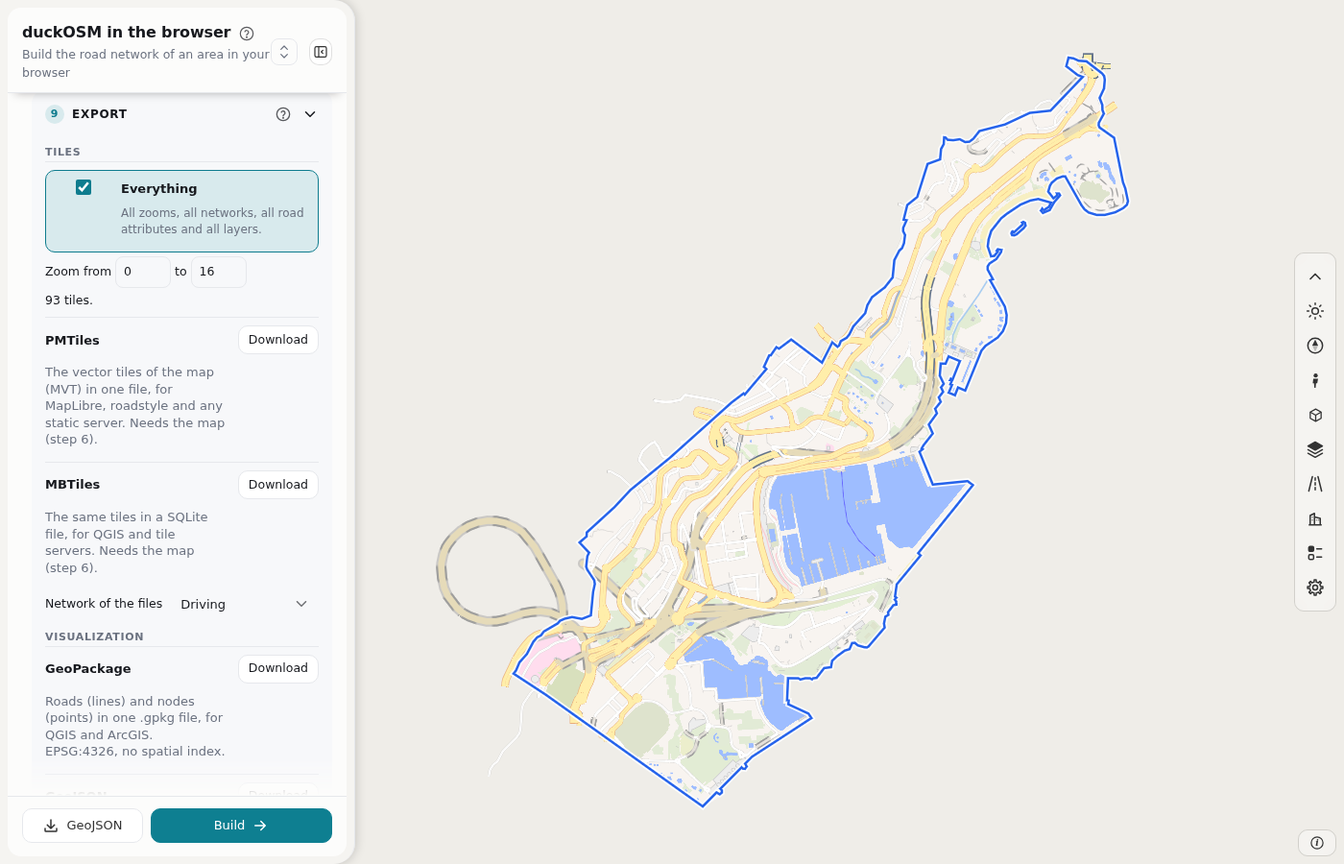
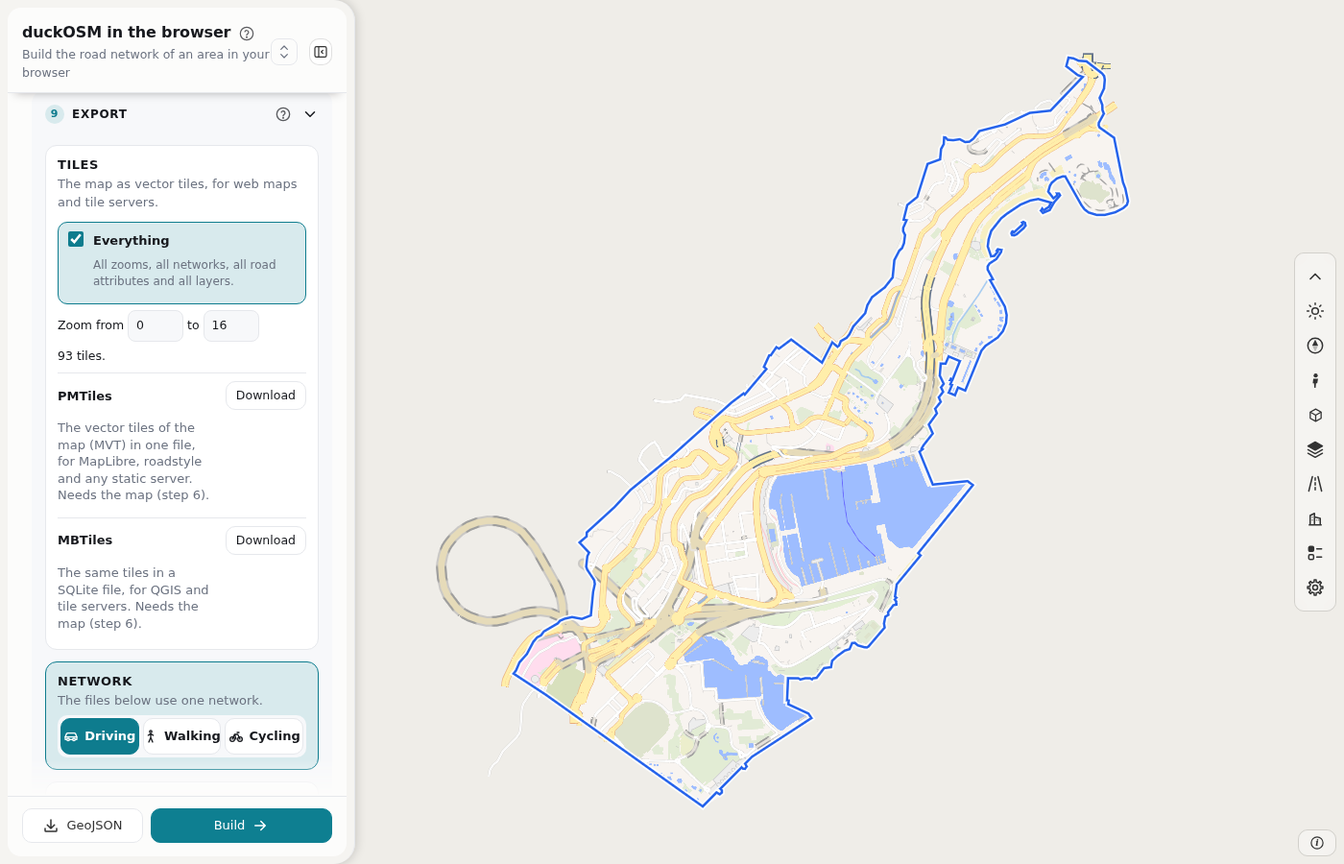
Export card: four sections, a segmented network control, a check of each file after the download

diff --git a/crates/duckosm-wasm/www/app/export.js b/crates/duckosm-wasm/www/app/export.js
@@ -35,7 +35,7 @@ export async function geojson(query, mode, area) {
   const nodes = await query(`SELECT node_id::VARCHAR AS node_id, ST_AsGeoJSON(geom) AS g FROM ${mode}.nodes ORDER BY node_id`);
   const fc = (rows, props) => JSON.stringify({ type: "FeatureCollection", features: rows.map((r) => ({ type: "Feature", properties: props(r), geometry: JSON.parse(r.g) })) });
   const keep = ({ g, ...p }) => Object.fromEntries(Object.entries(p).map(([k, v]) => [k, typeof v === "bigint" ? String(v) : v]));
-  return { name: `${SLUG(area)}_${mode}_geojson.zip`, blob: await zipOf({ [`${mode}_roads.geojson`]: fc(roads, keep), [`${mode}_nodes.geojson`]: fc(nodes, keep) }), files: 2, rows: roads.length };
+  return { name: `${SLUG(area)}_${mode}_geojson.zip`, blob: await zipOf({ [`${mode}_roads.geojson`]: fc(roads, keep), [`${mode}_nodes.geojson`]: fc(nodes, keep) }), files: 2, rows: roads.length, nodes: nodes.length };
 }
 
 /** A MATSim network (network_v2.dtd): the nodes, and one link for each edge. */
@@ -54,7 +54,7 @@ export async function matsim(query, mode, area) {
       `<attributes><attribute name="origid" class="java.lang.String">${e.osm_id}</attribute><attribute name="type" class="java.lang.String">${esc(e.highway)}</attribute></attributes></link>\n`);
   }
   out.push("</links>\n</network>\n");
-  return { name: `${SLUG(area)}_${mode}_matsim_network.xml`, blob: text(out.join("")), rows: edges.length };
+  return { name: `${SLUG(area)}_${mode}_matsim_network.xml`, blob: text(out.join("")), rows: edges.length, nodes: nodes.length };
 }
 
 /** SUMO plain XML: node, edge and connection files for `netconvert`, with a README that has the command. */
@@ -75,7 +75,7 @@ export async function sumo(query, mode, area) {
   const con = [`<?xml version="1.0" encoding="UTF-8"?>\n<connections>\n`, ...links.map((l) => `  <connection from="${l.a}" to="${l.b}"/>\n`), "</connections>\n"].join("");
   const readme = `SUMO plain XML of the ${mode} network of ${area}, from duckOSM-rust.\nCoordinates: meters in ${utm}. Run:\n\n  netconvert --node-files ${slug}.nod.xml --edge-files ${slug}.edg.xml --connection-files ${slug}.con.xml -o ${slug}.net.xml\n\n` +
     `The connections are the legal turns of the edge graph (turn restrictions applied). The edge ids are the edge_id values of the tables.\n`;
-  return { name: `${slug}_sumo.zip`, blob: await zipOf({ [`${slug}.nod.xml`]: nod, [`${slug}.edg.xml`]: edg, [`${slug}.con.xml`]: con, "README.txt": readme }), rows: edges.length, connections: links.length };
+  return { name: `${slug}_sumo.zip`, blob: await zipOf({ [`${slug}.nod.xml`]: nod, [`${slug}.edg.xml`]: edg, [`${slug}.con.xml`]: con, "README.txt": readme }), rows: edges.length, nodes: nodes.length, connections: links.length };
 }
 
 import { decodeTile, encodeTile, addProps, indexOf } from "./mvt.js";
@@ -247,7 +247,7 @@ async function tileFile(kind, ctx, area) {
   if (!tiles.length) throw new Error("no tile has anything in it: show the map first (step 6), or use other zooms");
   const info = { name: SLUG(area), bbox: ctx.bbox, minzoom: ctx.min, maxzoom: ctx.max, layers };
   const blob = await (kind === "pmtiles" ? pmtiles : mbtiles)(tiles, info);
-  return { name: `${SLUG(area)}_z${ctx.min}-${ctx.max}.${kind}`, blob, rows: tiles.length, tiles: tiles.length, layers };
+  return { name: `${SLUG(area)}_z${ctx.min}-${ctx.max}.${kind}`, blob, rows: tiles.length, tiles: tiles.length, layers, min: ctx.min, max: ctx.max, edgeTiles: ctx.extra ?? null };
 }
 export const pmtilesFile = (query, mode, area, ctx) => tileFile("pmtiles", ctx, area);
 export const mbtilesFile = (query, mode, area, ctx) => tileFile("mbtiles", ctx, area);
@@ -376,7 +376,121 @@ export async function geopackage(query, mode, area) {
   db.run("INSERT INTO gpkg_geometry_columns VALUES ('roads', 'geom', 'LINESTRING', 4326, 0, 0), ('nodes', 'geom', 'POINT', 4326, 0, 0)");
   const bytes = db.export();
   db.close();
-  return { name: `${SLUG(area)}_${mode}.gpkg`, blob: new Blob([bytes], { type: "application/geopackage+sqlite3" }), rows: edges.length };
+  return { name: `${SLUG(area)}_${mode}.gpkg`, blob: new Blob([bytes], { type: "application/geopackage+sqlite3" }), rows: edges.length, nodes: nodes.length };
+}
+
+// ---- the check of a file: the page reads the file that it made, and compares it with the tables. `verify` gives {ok, text}.
+const unzip = async (blob) => {
+  const { unzipSync } = await import("https://cdn.jsdelivr.net/npm/fflate@0.8.2/esm/browser.js");
+  return unzipSync(new Uint8Array(await blob.arrayBuffer()));
+};
+const count = async (query, sql) => Number((await query(sql))[0].n);
+const xml = (bytes) => {
+  const d = new DOMParser().parseFromString(new TextDecoder().decode(bytes), "application/xml");
+  if (d.querySelector("parsererror")) throw new Error("the XML does not parse");
+  return d;
+};
+const gunzip = async (bytes) => new Uint8Array(await new Response(new Blob([bytes]).stream().pipeThrough(new DecompressionStream("gzip"))).arrayBuffer());
+const fmt = (n) => Number(n).toLocaleString("en-US");
+
+/** Read the directories of a PMTiles file: [{id, offset, length}] of every tile, and the header numbers. */
+async function readPmtiles(bytes) {
+  const v = new DataView(bytes.buffer, bytes.byteOffset, bytes.byteLength), u64 = (o) => Number(v.getBigUint64(o, true));
+  if (new TextDecoder().decode(bytes.subarray(0, 7)) !== "PMTiles" || bytes[7] !== 3) throw new Error("the file is not PMTiles v3");
+  const h = { rootAt: u64(8), rootLen: u64(16), leafAt: u64(40), leafLen: u64(48), dataAt: u64(56), tiles: u64(72), min: bytes[100], max: bytes[101] };
+  const dir = async (at, len) => {
+    const b = await gunzip(bytes.subarray(at, at + len));
+    let i = 0;
+    const varint = () => { let x = 0, sh = 0; for (;;) { const c = b[i++]; x += (c & 127) * 2 ** sh; if (c < 128) return x; sh += 7; } };
+    const n = varint(), e = Array.from({ length: n }, () => ({}));
+    let id = 0;
+    for (const x of e) { id += varint(); x.id = id; }
+    for (const x of e) x.run = varint();
+    for (const x of e) x.length = varint();
+    e.forEach((x, k) => { const o = varint(); x.offset = o === 0 && k > 0 ? e[k - 1].offset + e[k - 1].length : o - 1; });
+    return e;
+  };
+  const tiles = [];
+  for (const e of await dir(h.rootAt, h.rootLen)) {
+    if (e.run > 0) tiles.push(e);
+    else for (const l of await dir(h.leafAt + e.offset, e.length)) tiles.push(l);
+  }
+  return { h, tiles, tileBytes: (e) => bytes.subarray(h.dataAt + e.offset, h.dataAt + e.offset + e.length) };
+}
+
+export async function verify(id, r, { query, mode, modes = [mode] }) {
+  const nEdges = id === "pmtiles" || id === "mbtiles" ? 0 : await count(query, `SELECT count(*) AS n FROM ${mode}.edges`);
+  const nNodes = id === "pmtiles" || id === "mbtiles" ? 0 : await count(query, `SELECT count(*) AS n FROM ${mode}.nodes`);
+  const same = (what, got, want) => { if (got !== want) throw new Error(`${what}: the file has ${fmt(got)}, the tables have ${fmt(want)}`); };
+  try {
+    if (id === "geojson") {
+      const z = await unzip(r.blob), td = new TextDecoder();
+      const roads = JSON.parse(td.decode(z[`${mode}_roads.geojson`])), nodes = JSON.parse(td.decode(z[`${mode}_nodes.geojson`]));
+      same("roads", roads.features.length, nEdges); same("nodes", nodes.features.length, nNodes);
+      return { ok: true, text: `${fmt(nEdges)} roads and ${fmt(nNodes)} nodes, the same as the tables` };
+    }
+    if (id === "gpkg") {
+      const db = new (await sqlite()).Database(new Uint8Array(await r.blob.arrayBuffer()));
+      const q = (sql) => db.exec(sql)[0].values[0][0];
+      same("roads", q("SELECT count(*) FROM roads"), nEdges); same("nodes", q("SELECT count(*) FROM nodes"), nNodes);
+      if (q("PRAGMA application_id") !== 1196444487) throw new Error("the application id is not GPKG");
+      const g = db.exec("SELECT geom FROM roads LIMIT 1")[0].values[0][0];
+      if (g[0] !== 0x47 || g[1] !== 0x50) throw new Error("the geometry has no GeoPackage header");
+      db.close();
+      return { ok: true, text: `${fmt(nEdges)} roads and ${fmt(nNodes)} nodes, the same as the tables; the header of the geometry is right` };
+    }
+    if (id === "matsim") {
+      const d = xml(new Uint8Array(await r.blob.arrayBuffer()));
+      const nodes = d.querySelectorAll("nodes > node"), links = d.querySelectorAll("links > link");
+      same("nodes", nodes.length, nNodes); same("links", links.length, nEdges);
+      const ids = new Set([...nodes].map((n) => n.getAttribute("id")));
+      for (const l of links) if (!ids.has(l.getAttribute("from")) || !ids.has(l.getAttribute("to"))) throw new Error(`link ${l.getAttribute("id")} has a node that is not in the file`);
+      return { ok: true, text: `${fmt(links.length)} links and ${fmt(nodes.length)} nodes, the same as the tables; every link joins two nodes of the file` };
+    }
+    if (id === "sumo") {
+      const z = await unzip(r.blob), name = Object.keys(z).find((n) => n.endsWith(".nod.xml")).slice(0, -8);
+      const nod = xml(z[`${name}.nod.xml`]), edg = xml(z[`${name}.edg.xml`]), con = xml(z[`${name}.con.xml`]);
+      same("nodes", nod.querySelectorAll("node").length, nNodes); same("edges", edg.querySelectorAll("edge").length, nEdges);
+      const want = await count(query, `SELECT count(*) AS n FROM ${mode}.edge_graph WHERE from_edge IN (SELECT edge_id FROM ${mode}.edges) AND to_edge IN (SELECT edge_id FROM ${mode}.edges)`);
+      same("connections", con.querySelectorAll("connection").length, want);
+      const ids = new Set([...nod.querySelectorAll("node")].map((n) => n.getAttribute("id")));
+      for (const e of edg.querySelectorAll("edge")) if (!ids.has(e.getAttribute("from")) || !ids.has(e.getAttribute("to"))) throw new Error(`edge ${e.getAttribute("id")} has a node that is not in the file`);
+      return { ok: true, text: `${fmt(nEdges)} edges, ${fmt(nNodes)} nodes and ${fmt(want)} connections, the same as the tables. Not run through netconvert here` };
+    }
+    if (id === "pmtiles") {
+      const p = await readPmtiles(new Uint8Array(await r.blob.arrayBuffer()));
+      same("tiles", p.tiles.length, r.tiles); same("tiles in the header", p.h.tiles, r.tiles);
+      if (p.h.min !== r.min || p.h.max !== r.max) throw new Error(`the zooms in the header are ${p.h.min} to ${p.h.max}, not ${r.min} to ${r.max}`);
+      const biggest = p.tiles.reduce((a, b) => (b.length > a.length ? b : a)), names = layerNames(await gunzip(p.tileBytes(biggest)));      // the biggest tile has the most layers
+      if (!names.length) throw new Error("a tile that I read back has no layers");
+      return { ok: true, text: `${fmt(p.tiles.length)} tiles, zoom ${p.h.min} to ${p.h.max}, directories read back; a tile has the layers ${names.slice(0, 4).join(", ")}${names.length > 4 ? "…" : ""}${r.edgeTiles ? await edgesCheck(r, query, modes) : ""}` };
+    }
+    if (id === "mbtiles") {
+      const db = new (await sqlite()).Database(new Uint8Array(await r.blob.arrayBuffer()));
+      same("tiles", db.exec("SELECT count(*) FROM tiles")[0].values[0][0], r.tiles);
+      const [lo, hi] = db.exec("SELECT min(zoom_level), max(zoom_level) FROM tiles")[0].values[0];
+      if (lo < r.min || hi > r.max) throw new Error(`the tiles have zooms ${lo} to ${hi}`);
+      const t = db.exec("SELECT tile_data FROM tiles LIMIT 1")[0].values[0][0];
+      if (t[0] !== 0x1f || t[1] !== 0x8b) throw new Error("a tile is not gzip");
+      db.close();
+      return { ok: true, text: `${fmt(r.tiles)} tiles, zoom ${lo} to ${hi}, gzip MVT in SQLite` };
+    }
+  } catch (e) {
+    return { ok: false, text: e.message };
+  }
+  return { ok: true, text: "" };
+}
+
+/** Every edge of every network is in the layer `edges` of the tiles of the highest zoom (the tiles that the export made). */
+async function edgesCheck(r, query, modes) {
+  const ids = new Set();
+  for (const [key, bytes] of r.edgeTiles) {
+    if (!key.startsWith(`${r.max}/`)) continue;
+    for (const l of decodeTile(bytes)) for (const f of l.features) for (let t = 0; t < f.tags.length; t += 2) if (l.keys[f.tags[t]] === "edge_id") ids.add(l.values[f.tags[t + 1]]);
+  }
+  const want = await count(query, "SELECT count(*) AS n FROM (" + modes.map((m) => `SELECT edge_id FROM ${m}.edges`).join(" UNION ") + ")");
+  if (ids.size !== want) throw new Error(`the tiles of zoom ${r.max} have ${fmt(ids.size)} edges, the tables have ${fmt(want)}`);
+  return `; all ${fmt(want)} edges of all networks are in the tiles of zoom ${r.max}`;
 }
 
 /** The formats of the card Export: id, title, what it is for, the group, the function, and the networks that it takes. */

diff --git a/crates/duckosm-wasm/www/index.html b/crates/duckosm-wasm/www/index.html
@@ -213,11 +213,21 @@ if (["localhost", "127.0.0.1"].includes(location.hostname)) {
 
   /* steps 3 to 5: the data, the build, the result (docs/app.md) */
   #step7-card [hidden], #step8-card [hidden], #step9-card [hidden], #fix-panel [hidden] { display: none; }
+  #export-list .expsec { border: 1px solid var(--line); border-radius: 12px; padding: 10px 12px 4px; margin-top: 12px; background: var(--bg); }
+  #export-list .expsec h3 { margin: 0 0 2px; font-size: 13px; letter-spacing: 0.04em; text-transform: uppercase; color: var(--fg); }
+  #export-list .expsec > .small.muted { margin: 0 0 6px; }
+  #export-list .netsec { border-color: var(--accent); background: var(--accent-soft); }
   #export-list .exp { display: grid; grid-template-columns: 1fr auto; gap: 4px 10px; align-items: center; padding: 8px 0; border-top: 1px solid var(--line); }
   #export-list .exp small { grid-column: 1; color: var(--mut); line-height: 1.35; }
-  #export-list .zoomrow { grid-template-columns: 1fr; padding-top: 8px; }
-  #export-list .zoomrow input { width: 58px; }
-  #export-list .grp { margin: 12px 0 0; font-size: 11px; font-weight: 600; letter-spacing: 0.06em; text-transform: uppercase; color: var(--mut); }
+  #export-seg { display: grid; grid-auto-flow: column; grid-auto-columns: minmax(0, 1fr); gap: 4px; margin: 4px 0 8px; }
+  #export-seg button { display: flex; align-items: center; justify-content: center; gap: 6px; height: 38px; border: 1px solid var(--line); border-radius: 10px; background: var(--bg); color: var(--fg); font-weight: 600; cursor: pointer; }
+  #export-seg button svg { width: 16px; height: 16px; }
+  #export-seg button[aria-checked=true] { background: var(--accent); border-color: var(--accent); color: #fff; }
+  #export-list .zoomrow { padding: 4px 0 8px; display: grid; gap: 6px; }
+  #export-list .zoomrow input[type=number] { width: 58px; }
+  #export-list .chk { grid-column: 1 / -1; font-size: 12px; line-height: 1.35; }
+  #export-list .chk.ok { color: #15803d; }
+  #export-list .chk.bad { color: var(--error, #b91c1c); }
   /* the fixes' own panel (like the level editor's): the steps, the title and the footer go while it is open, and the road popup is off */
   #fix-panel { display: none; }
   body.editing-fixes #sb .sb-top, body.editing-fixes #sb .sb-body, body.editing-fixes #sb .sb-foot { display: none; }
@@ -618,7 +628,7 @@ FROM driving.edges GROUP BY highway ORDER BY edges DESC</textarea>
 
 <section id="step9-card" class="step" aria-labelledby="step9">
   <h2 id="step9"><span class="n">9</span>Export</h2>
-  <div class="grid2" id="export-mode-row"><label for="export-mode" class="small">Network of the files</label><select id="export-mode"></select></div>
+  <input id="export-mode" type="hidden" value="driving">
   <div id="export-list"></div>
   <p id="export-status" class="progress" aria-live="polite"></p>
 </section>
@@ -2411,19 +2421,28 @@ for (const old of [...document.querySelectorAll("section.step")]) {
 }
 // card 9, Export: the networks that the build made, and one row for each format
 const exportQuery = async (sql) => (await duck.query(sql)).toArray().map((r) => r.toJSON());
+const EXPORT_GROUPS = {
+  Tiles: ["Tiles", "The map as vector tiles, for web maps and tile servers."],
+  Visualization: ["Visualization", "Files for QGIS, ArcGIS and web maps. They use the network that you pick above."],
+  Simulation: ["Simulation", "Input for simulation software. It uses the network that you pick above."],
+};
 function paintExport() {
-  const modes = [...new Set(duck.tables.filter((t) => t.table === "edges").map((t) => t.mode))];
-  const sel = $("export-mode"), was = sel.value;
-  sel.innerHTML = modes.map((m) => `<option value="${m}">${m[0].toUpperCase() + m.slice(1)}</option>`).join("");
-  sel.value = modes.includes(was) ? was : modes[0] ?? "";       // (roadstyle's list shows the new value after this)
-  $("export-mode-row").hidden = modes.length < 2;
-  $("export-status").before($("export-mode-row"));                 // out of the list, which is made again
-  let last = "";
-  const zoomRow = '<div class="exp zoomrow"><label class="optrow"><input type="checkbox" id="export-full" checked><span class="t"><b>Everything</b><small>All zooms, all networks, all road attributes and all layers.</small></span></label><span class="small">Zoom from <input id="export-zmin" type="number" min="0" max="18" value="10" aria-label="The lowest zoom"> to <input id="export-zmax" type="number" min="0" max="18" value="14" aria-label="The highest zoom"></span><span id="export-tiles" class="small"></span></div>';
-  $("export-list").innerHTML = exporter.FORMATS.map((f) => `${f.group !== last ? `<p class="grp">${(last = f.group)}</p>${f.tiles ? zoomRow : ""}` : ""}<div class="exp"><b>${esc(f.title)}</b><button type="button" class="btn sm" data-fmt="${f.id}"${f.tiles ? " data-tiles" : ""}>Download</button><small>${esc(f.note)}</small></div>`).join("");
-  [...$("export-list").querySelectorAll(".grp")].find((g) => g.textContent !== "Tiles")?.before($("export-mode-row"));     // the network applies to the files below the tiles
+  const modes = exportModes(), was = $("export-mode").value;
+  $("export-mode").value = modes.includes(was) ? was : modes[0] ?? "";
+  const zoomRow = '<div class="zoomrow"><label class="optrow"><input type="checkbox" id="export-full" checked><span class="t"><b>Everything</b><small>All zooms, all networks, all road attributes and all layers.</small></span></label><span class="small">Zoom from <input id="export-zmin" type="number" min="0" max="18" value="10" aria-label="The lowest zoom"> to <input id="export-zmax" type="number" min="0" max="18" value="14" aria-label="The highest zoom"></span><span id="export-tiles" class="small"></span></div>';
+  const network = `<section class="expsec netsec"><h3>Network</h3><p class="small muted">The files below use one network.</p><div class="segmented" id="export-seg" role="radiogroup" aria-label="Network of the files">${modes.map((m) => `<button type="button" role="radio" data-m="${m}" aria-checked="${m === $("export-mode").value}">${icon(({ driving: "car", walking: "walk", cycling: "bike" })[m] ?? "arrow")}${m[0].toUpperCase() + m.slice(1)}</button>`).join("")}</div></section>`;
+  const row = (f) => `<div class="exp"><b>${esc(f.title)}</b><button type="button" class="btn sm" data-fmt="${f.id}"${f.tiles ? " data-tiles" : ""}>Download</button><small>${esc(f.note)}</small></div>`;
+  const section = (g) => `<section class="expsec"><h3>${EXPORT_GROUPS[g][0]}</h3><p class="small muted">${EXPORT_GROUPS[g][1]}</p>${g === "Tiles" ? zoomRow : ""}${exporter.FORMATS.filter((f) => f.group === g).map(row).join("")}</section>`;
+  $("export-list").innerHTML = section("Tiles") + (modes.length > 1 ? network : "") + section("Visualization") + section("Simulation");
   paintTileCount();
 }
+$("export-list").addEventListener("click", (e) => {
+  const b = e.target.closest("#export-seg [data-m]");
+  if (!b) return;
+  $("export-mode").value = b.dataset.m;
+  for (const x of $("export-seg").children) x.setAttribute("aria-checked", x === b);
+  exportBox = null; paintTileCount();
+});
 // the tiles of the map (card 6): the sources of the map's style, in MVT; the box is the extent of the network; the zooms are the two numbers of the card
 let exportBox = null;
 async function exportExtent() {
@@ -2477,6 +2496,10 @@ $("export-list").addEventListener("click", async (e) => {
     const a = Object.assign(document.createElement("a"), { download: r.name, href: URL.createObjectURL(r.blob) });
     a.click(); setTimeout(() => URL.revokeObjectURL(a.href));
     exported = true; refreshSteps();
+    const chk = await exporter.verify(f.id, r, { query: exportQuery, mode, modes: exportModes() });
+    b.closest(".exp").querySelector(".chk")?.remove();
+    b.closest(".exp").insertAdjacentHTML("beforeend", `<small class="chk ${chk.ok ? "ok" : "bad"}">${chk.ok ? "✓ Checked: " : "✗ Problem: "}${esc(chk.text)}</small>`);
+    window.lastCheck = chk;
     $("export-status").textContent = `${r.name}: ${num(r.rows)} ${f.tiles ? "tiles" : "edges"}, ${num(r.blob.size / 1024, 0)} KB, ${num((performance.now() - t0) / 1000, 1)} s.`;
     window.lastExport = { name: r.name, size: r.blob.size, rows: r.rows, connections: r.connections };       // for export_e2e.py
   } catch (err) {

diff --git a/crates/duckosm-wasm/www/export_e2e.py b/crates/duckosm-wasm/www/export_e2e.py
@@ -39,6 +39,7 @@ def serve_range(route, body):
 
 
 def download(page, fmt):
+    page.evaluate("window.lastCheck = null")
     try:
         with page.expect_download(timeout=60_000) as d:
             page.click(f"#export-list [data-fmt={fmt}]")
@@ -47,6 +48,11 @@ def download(page, fmt):
         raise
     path = out / d.value.suggested_filename
     d.value.save_as(path)
+    page.wait_for_function("window.lastCheck !== null", timeout=120_000)
+    chk = page.evaluate("window.lastCheck")
+    assert chk["ok"], (fmt, "the page's own check found a problem", chk)
+    assert page.locator(f"#export-list [data-fmt={fmt}]").locator("xpath=ancestor::div[contains(@class,'exp')]").locator(".chk.ok").count() == 1, "the check line shows under the format"
+    print(f"  check {fmt}: {chk['text'][:150]}")
     return path
 
 
@@ -67,8 +73,10 @@ with sync_playwright() as p:
     assert "off" not in (page.get_attribute("#step9-card", "class") or ""), "the card is on after a build"
     if "folded" in (page.get_attribute("#step9-card", "class") or ""):
         page.click("#step9")
-    assert page.locator("#export-list [data-fmt]").count() == 6 and page.locator("#export-mode option").count() == 3
-    assert page.evaluate("document.getElementById('export-zmax').compareDocumentPosition(document.getElementById('export-mode-row')) & Node.DOCUMENT_POSITION_FOLLOWING"), "the network list comes after the tile section (it is for the files)"
+    assert page.locator("#export-list [data-fmt]").count() == 6
+    assert page.evaluate("document.getElementById('export-zmax').compareDocumentPosition(document.getElementById('export-seg')) & Node.DOCUMENT_POSITION_FOLLOWING"), "the network control comes after the tile section (it is for the files)"
+    assert page.locator("#export-list .expsec").count() == 4 and page.locator("#export-seg [data-m]").count() == 3 and page.get_attribute("#export-seg [data-m=driving]", "aria-checked") == "true"
+    assert [t.strip() for t in page.eval_on_selector_all("#export-list .expsec h3", "(l) => l.map((x) => x.textContent)")] == ["Tiles", "Network", "Visualization", "Simulation"], "tiles, the network, visualization and simulation are four sections"
     assert page.evaluate("getComputedStyle(document.querySelector('#export-full').closest('.optrow')).display") == "flex", "the Everything row has the card's option style"
     n_edges = rows(page, "SELECT count(*)::INTEGER AS n FROM driving.edges")[0]["n"]
     n_nodes = rows(page, "SELECT count(*)::INTEGER AS n FROM driving.nodes")[0]["n"]
@@ -99,6 +107,15 @@ with sync_playwright() as p:
     first = next(f for f in roads["features"] if f["properties"]["edge_id"] == eid)
     assert npts == len(first["geometry"]["coordinates"]) and abs(first["geometry"]["coordinates"][0][0] - x0) < 1e-9 and abs(first["geometry"]["coordinates"][0][1] - y0) < 1e-9
     print(f"GeoPackage: {n_edges} roads and {n_nodes} nodes")
+
+    # the segmented control picks the network of the files: Walking gives the walking edges
+    page.click("#export-seg [data-m=walking]")
+    assert page.get_attribute("#export-seg [data-m=walking]", "aria-checked") == "true" and page.input_value("#export-mode") == "walking"
+    walk = sqlite3.connect(download(page, "gpkg"))
+    n_walk = rows(page, "SELECT count(*)::INTEGER AS n FROM walking.edges")[0]["n"]
+    assert walk.execute("SELECT count(*) FROM roads").fetchone()[0] == n_walk and n_walk != n_edges, (n_walk, n_edges)
+    page.click("#export-seg [data-m=driving]")
+    print(f"Network control: Walking gives {n_walk} roads")
 
     # MATSim: the DTD line, one link for each edge, meters (not degrees), free speed and capacity above 0, every link between two nodes
     path = download(page, "matsim")
@@ -203,6 +220,9 @@ with sync_playwright() as p:
     }""")
     assert leaf == [6000, True, "tile 0 0", "tile 57 31", "tile 99 59", None], leaf
     print("PMTiles: 6,000 tiles with leaf directories are read back")
+    # a file that is wrong is reported: a MATSim file with no nodes and no links
+    bad = page.evaluate("""async () => { const ex = await import('./app/export.js'); return ex.verify('matsim', {blob: new Blob(['<network><nodes/><links/></network>'])}, {query: (sql) => window.duckApi.query(sql).then((r) => r.toArray().map((x) => x.toJSON())), mode: 'driving'}); }""")
+    assert bad["ok"] is False and "the file has 0" in bad["text"], bad
     assert "tiles" in page.inner_text("#export-status")
     page.screenshot(path=str(out / "export.png"))
     browser.close()

diff --git a/crates/duckosm-wasm/www/docs_shots.py b/crates/duckosm-wasm/www/docs_shots.py
@@ -108,7 +108,7 @@ with sync_playwright() as p:
     unfold(page, "step6-card")
     shot(page, "11-visualization", "#step6-card")
     unfold(page, "step9-card")
-    page.set_viewport_size({"width": 1400, "height": 1250})      # the card is taller than the panel
+    page.set_viewport_size({"width": 1400, "height": 1800})      # the card is taller than the panel
     shot(page, "11b-export", "#step9-card")
     page.set_viewport_size({"width": 1400, "height": 900})
     shot(page, "12-map-after-build")

diff --git a/CHANGELOG.md b/CHANGELOG.md
@@ -10,7 +10,7 @@ All versions are on the GitHub Releases page of `Khoshkhah/duckosm-rust`. There 
 - **Unselect the area, the H3 row and "Your areas" picks in the browser page**: **Unselect the area** (cards 1 and 2, or a second click on the chosen search result) removes the boundary so that another part can be chosen. The base-map box has a row **H3 hexagons** (roadstyle's `rsAddTopRow`) that shows or hides the grid, and a build from hexagons hides it (only the boundary stays). A click on a row of **Your areas** shows its boundary on the map and zooms to it, a second click hides it, and **Open** loads it. The page no longer redraws the boundary of the last build at the start (it showed with the row's boundary), and a build no longer saves the blank base map as the person's choice, so the next visit starts on OpenFreeMap.
 - **Walls of a saved area from an older build** show again in the Building tab. The query for the walls named the new column `door`, which an older `main.building_faces` does not have, so the list and the colors were empty.
 - **A guide to the dashboard, with pictures** (`docs/dashboard.md`): each part of the page (the bar, the base-map box, Your areas, steps 1 to 8, the six tabs of the fixes panel, the dark theme and the phone), with 26 pictures of Monaco in `docs/img/dashboard/`. `crates/duckosm-wasm/www/docs_shots.py` makes the pictures again. The Search box says that it takes an H3 cell ID.
-- **Card 9, Export, in the browser page**: **Download** for each format, made in the browser from the tables of the build: **PMTiles** and **MBTiles** (the tiles of the map as MVT for the zooms that you choose, at most 40,000 tiles; a PMTiles v3 file that the pmtiles library reads, with leaf directories for more than 4,000 tiles), **GeoPackage** (`roads` and `nodes` in EPSG:4326, read by GDAL), **GeoJSON** (roads and nodes, a .zip), **MATSim network** (`network_v2.dtd`, meters in the UTM zone) and **SUMO plain XML** (`.nod.xml`, `.edg.xml`, `.con.xml` and the `netconvert` command; the connections are the legal turns of `edge_graph`). The tile export has **Everything** (on by default): zoom 0 up to the highest zoom under the limit, all networks, all layers, and a new layer `edges` made from the tables with every attribute of every edge and a flag for each network (a lower road class starts at a higher zoom). New: `app/export.js`, `app/mvt.js` (a reader and writer of MVT), `export_e2e.py`.
+- **Card 9, Export, in the browser page**: **Download** for each format, made in the browser from the tables of the build: **PMTiles** and **MBTiles** (the tiles of the map as MVT for the zooms that you choose, at most 40,000 tiles; a PMTiles v3 file that the pmtiles library reads, with leaf directories for more than 4,000 tiles), **GeoPackage** (`roads` and `nodes` in EPSG:4326, read by GDAL), **GeoJSON** (roads and nodes, a .zip), **MATSim network** (`network_v2.dtd`, meters in the UTM zone) and **SUMO plain XML** (`.nod.xml`, `.edg.xml`, `.con.xml` and the `netconvert` command; the connections are the legal turns of `edge_graph`). The tile export has **Everything** (on by default): zoom 0 up to the highest zoom under the limit, all networks, all layers, and a new layer `edges` made from the tables with every attribute of every edge and a flag for each network (a lower road class starts at a higher zoom). After each download the page reads the file back and shows a green "Checked" line (counts equal to the tables, the PMTiles directories, the edges in the highest zoom) or a red "Problem" line. New: `app/export.js`, `app/mvt.js` (a reader and writer of MVT), `export_e2e.py`.
 - **Guards in the fixes panel**: one choice closes a field, or narrows the list of a field, for another. The rules are data (`app/presets.json`, `_guards`) for the Road, Building, Node and New road tabs: for example a one-way road closes the lanes for each direction, a bridge closes the tunnel field, a motorway has no sidewalk and a paved surface, a flat roof has no roof levels, a node with no kind has no crossing, kerb or tactile paving, and a traffic signal with a crossing offers one crossing value. The reason shows under the field, and Add to changes refuses a value that a guard closed. The Node kinds stop, give way and bus stop have constraints like the signal.
 - **A new method for the wall types** (`building_faces.rs`). Monaco: buildings with no front wall go from 128 to 10, and buildings with only `side` walls from 63 to 9. What changed: a street is seen when a line from one of three points of the wall (20, 50 and 80 percent) reaches it (before: one point); a wall with an OSM `entrance` node is a front wall (a service door or an emergency exit is not); the street that the `addr:street` tag names, and a street of a higher class, win; a building that sees no street gets the wall that faces the nearest street within 150 m (`inferred`). New column `type_reason` (`entrance`, `address`, `street`, `inferred`, `opposite`, `shared`, `other`, `inner`, `none`) says why each wall has its type, and the wall rows show a note for the guesses.
 - **Buildings that are multipolygon relations have walls.** The outer rings give walls like those of a way, and each inner ring (a courtyard) gives `court` walls. New type `court`, new column `building_type` (`way` or `relation`; the two id spaces are separate), and `main.building_faces` has 10,909 rows on Monaco (it had 9,907). The Building tab lists the walls of such a building.

diff --git a/docs/dashboard.md b/docs/dashboard.md
@@ -291,7 +291,7 @@ Card 8 opens roadstyle's level editor for the roads that you built: change the l
 
 ![Card 9: the network and the export formats](img/dashboard/11b-export.png)
 
-Card 9 gives the network that you built to other software. It is off until a build ends. The files are made in your browser from the tables, and each **Download** button makes one file. The **Network of the files** list (below the tiles) sets the network for GeoPackage, GeoJSON, MATSim and SUMO. It shows when you built more than one network. The tiles do not use it.
+Card 9 gives the network that you built to other software. It is off until a build ends. The files are made in your browser from the tables, and each **Download** button makes one file. The card has four sections: **Tiles**, **Network**, **Visualization** and **Simulation**. In **Network**, pick Driving, Walking or Cycling with the buttons (the section shows when you built more than one network). The network sets the files of **Visualization** and **Simulation**. The tiles do not use it.
 
 | Format | File | What it has |
 |---|---|---|
@@ -317,6 +317,19 @@ What a tile has:
 | `ov0`, `ov1`, ... | The base-map layers of the build: water, land use, buildings (with `height`), railways and more. They need a build with **Layers** on. |
 
 The OpenFreeMap background of the page is not in the tiles: it is not ours.
+
+**The check.** After each download, the page reads the file that it made and compares it with the tables. A line under the format says what it found: a green "Checked" line (for example "2,765 roads and 1,719 nodes, the same as the tables"), or a red "Problem" line with the first difference. The checks:
+
+| Format | What the page checks |
+|---|---|
+| GeoJSON | The number of roads and nodes. |
+| GeoPackage | The number of roads and nodes, the application id and the header of a geometry. |
+| MATSim | The number of nodes and links, and that every link joins two nodes of the file. |
+| SUMO | The number of nodes, edges and connections, and that every edge joins two nodes of the file. The page does not run `netconvert`. |
+| PMTiles | The directories (root and leaf), the number of tiles, the zooms in the header and the layers of the biggest tile. With **Everything**, also that all edges of all networks are in the tiles of the highest zoom. |
+| MBTiles | The number of tiles, the zooms and that a tile is gzip. |
+
+A check is not a test with other software. To test with real tools, open the file in QGIS (GeoPackage, MBTiles, GeoJSON), in a PMTiles viewer or MapLibre (PMTiles), in MATSim, or with `netconvert` (SUMO). `export_e2e.py` runs all the checks on Monaco.
 
 Facts about the files:
 
